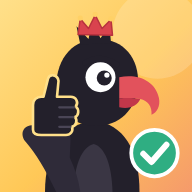
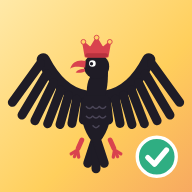
Icône : aigle héraldique noir couronné
Claude-Session: https://claude.ai/code/session_01QzSrM9BQRZZjqAqeosaf9c

diff --git a/sw.js b/sw.js
@@ -1,4 +1,4 @@
-const C='gso-v18';const F=['./','index.html','citraro.html','manifest-citraro.json','manifest.json','icon-192.png','icon-512.png','icon-180.png'];
+const C='gso-v19';const F=['./','index.html','citraro.html','manifest-citraro.json','manifest.json','icon-192.png','icon-512.png','icon-180.png'];
 self.addEventListener('install',e=>{e.waitUntil(caches.open(C).then(c=>c.addAll(F)));self.skipWaiting()});
 self.addEventListener('activate',e=>{e.waitUntil(caches.keys().then(k=>Promise.all(k.filter(x=>x!==C).map(x=>caches.delete(x)))));self.clients.claim()});
 self.addEventListener('fetch',e=>{if(e.request.method!=='GET'||new URL(e.request.url).origin!==self.location.origin)return;

diff --git a/citraro.html b/citraro.html
@@ -7,8 +7,8 @@
 <meta name="apple-mobile-web-app-title" content="Gen suis où ?">
 <title>Gen suis où ?</title>
 <link rel="manifest" href="manifest-citraro.json">
-<link rel="apple-touch-icon" href="icon-180.png?v=2">
-<link rel="icon" href="icon-192.png?v=2">
+<link rel="apple-touch-icon" href="icon-180.png?v=3">
+<link rel="icon" href="icon-192.png?v=3">
 <meta name="theme-color" content="#d9434e">
 <meta name="apple-mobile-web-app-status-bar-style" content="default">
 <link rel="preconnect" href="https://fonts.googleapis.com">

diff --git a/index.html b/index.html
@@ -7,8 +7,8 @@
 <meta name="apple-mobile-web-app-title" content="Gen suis où ?">
 <title>Gen suis où ?</title>
 <link rel="manifest" href="manifest.json">
-<link rel="apple-touch-icon" href="icon-180.png?v=2">
-<link rel="icon" href="icon-192.png?v=2">
+<link rel="apple-touch-icon" href="icon-180.png?v=3">
+<link rel="icon" href="icon-192.png?v=3">
 <meta name="theme-color" content="#d9434e">
 <meta name="apple-mobile-web-app-status-bar-style" content="default">
 <link rel="preconnect" href="https://fonts.googleapis.com">
